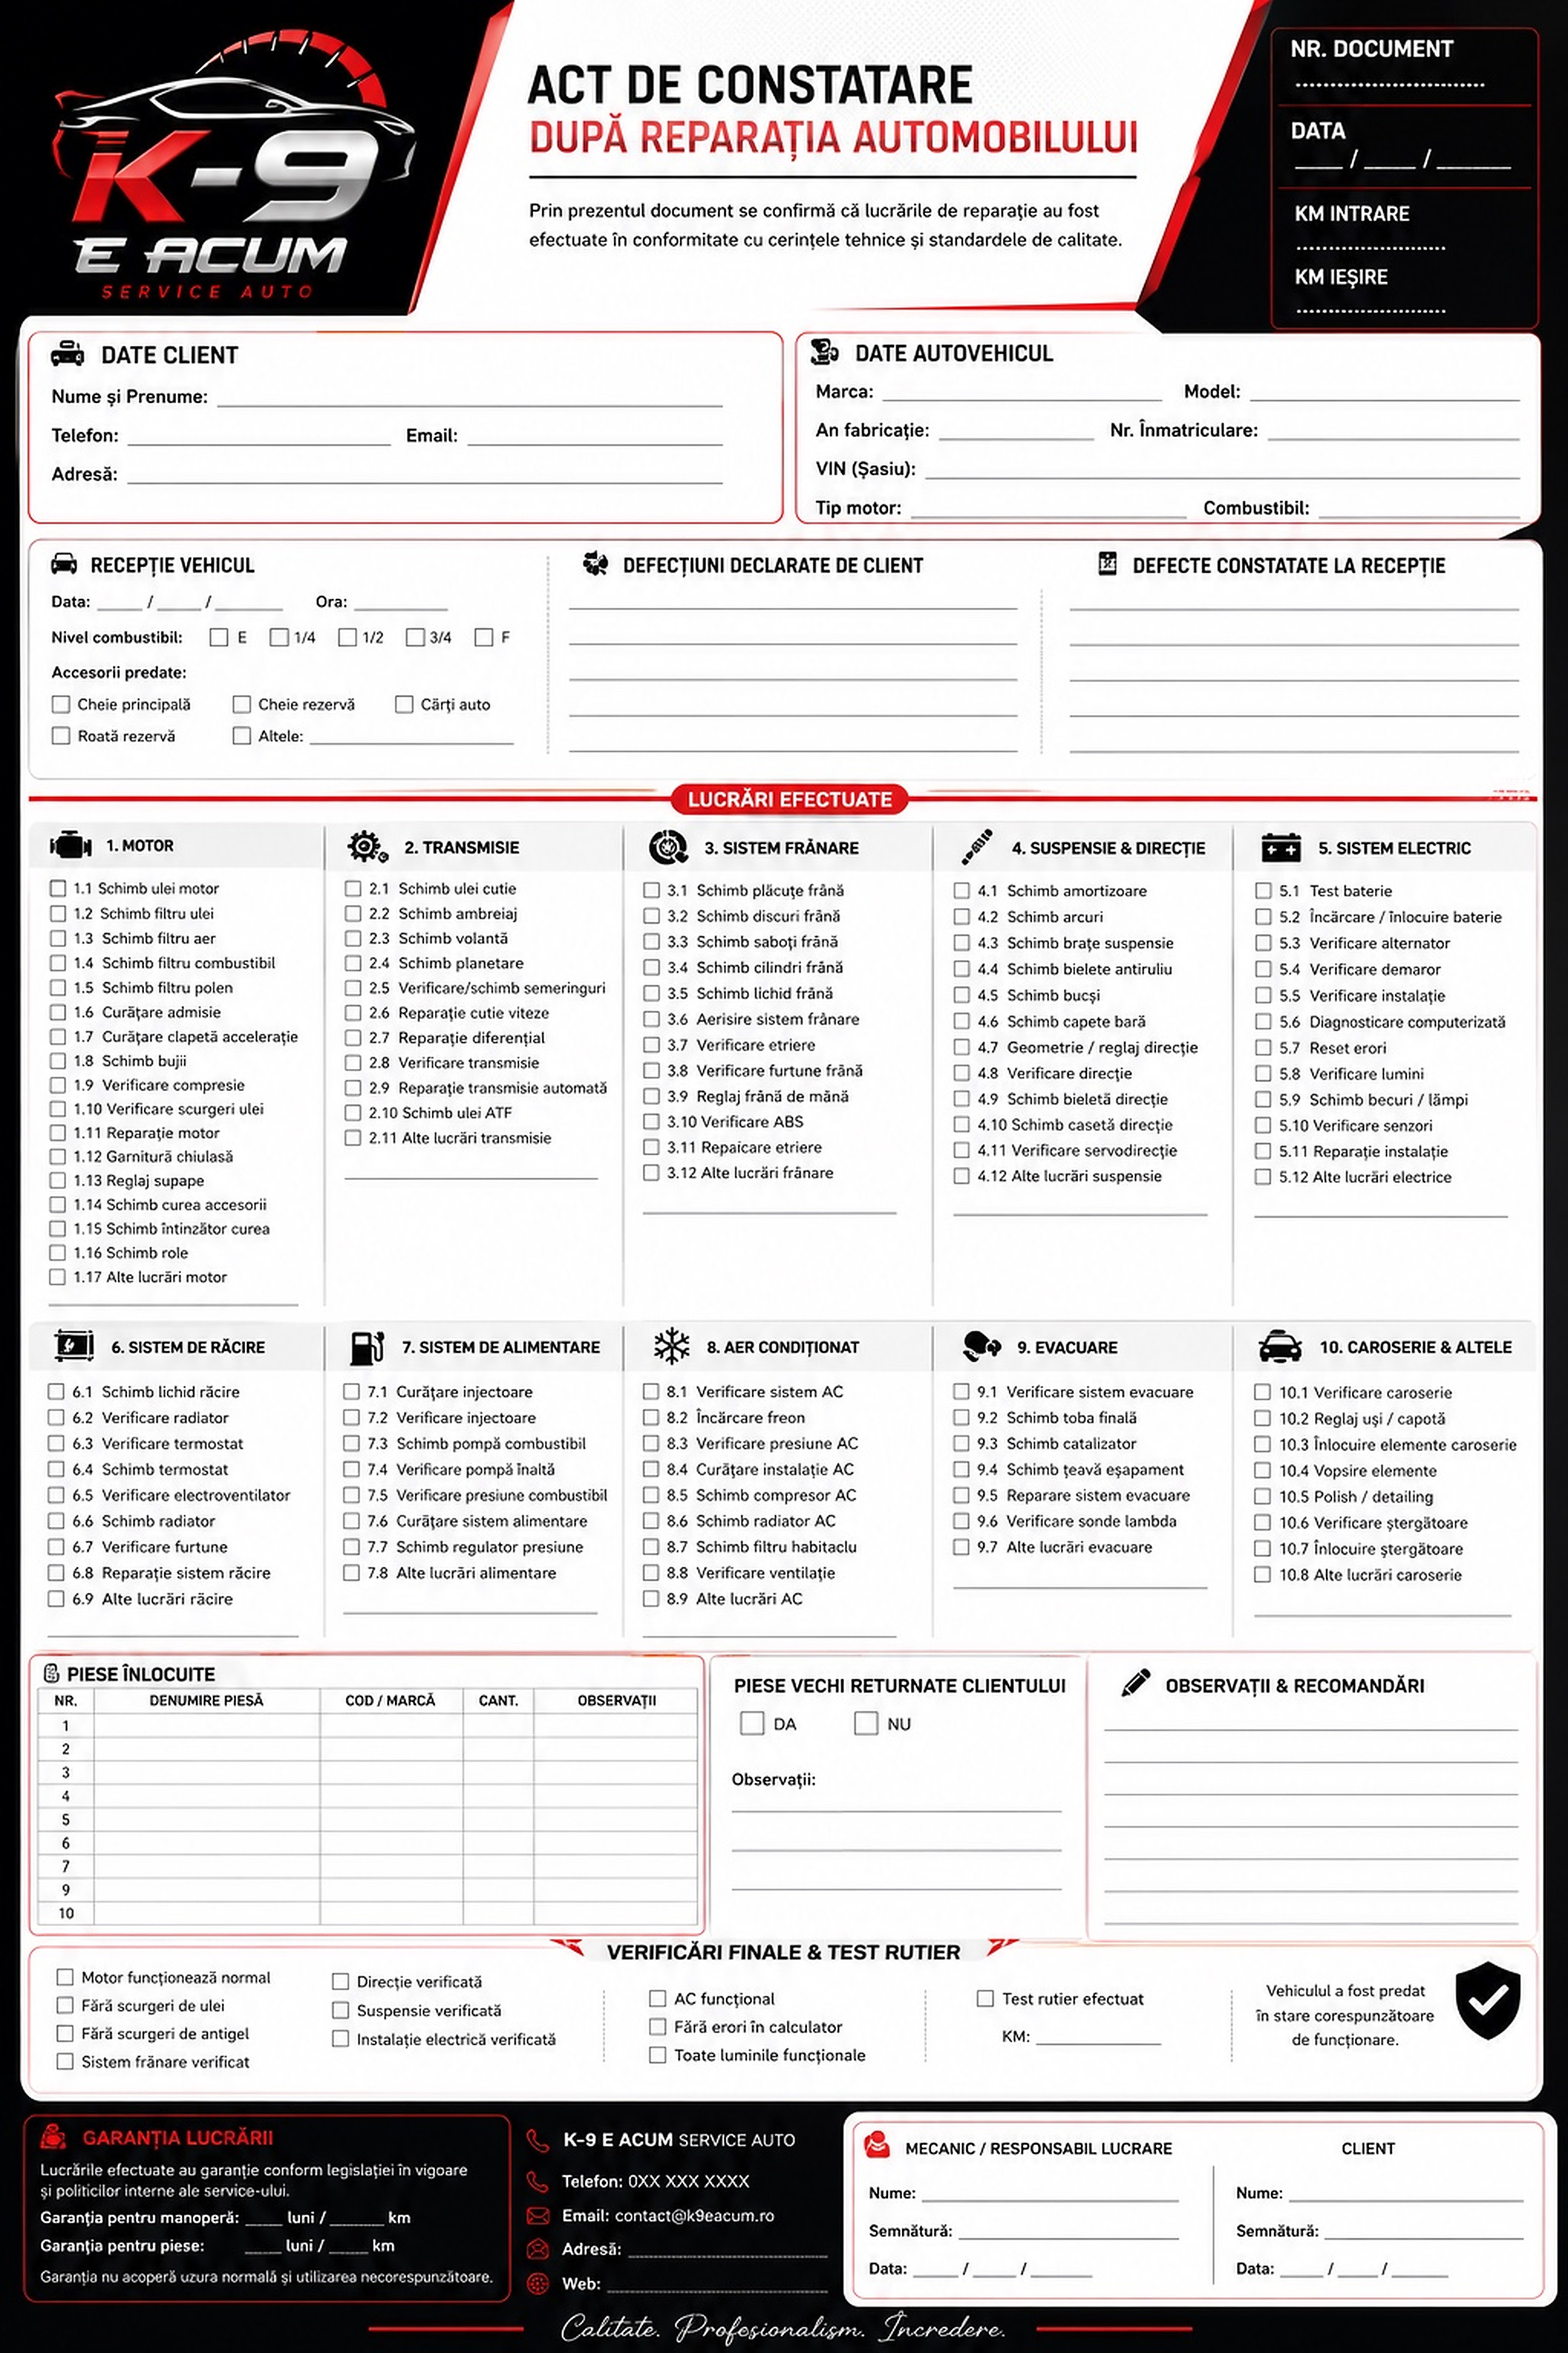
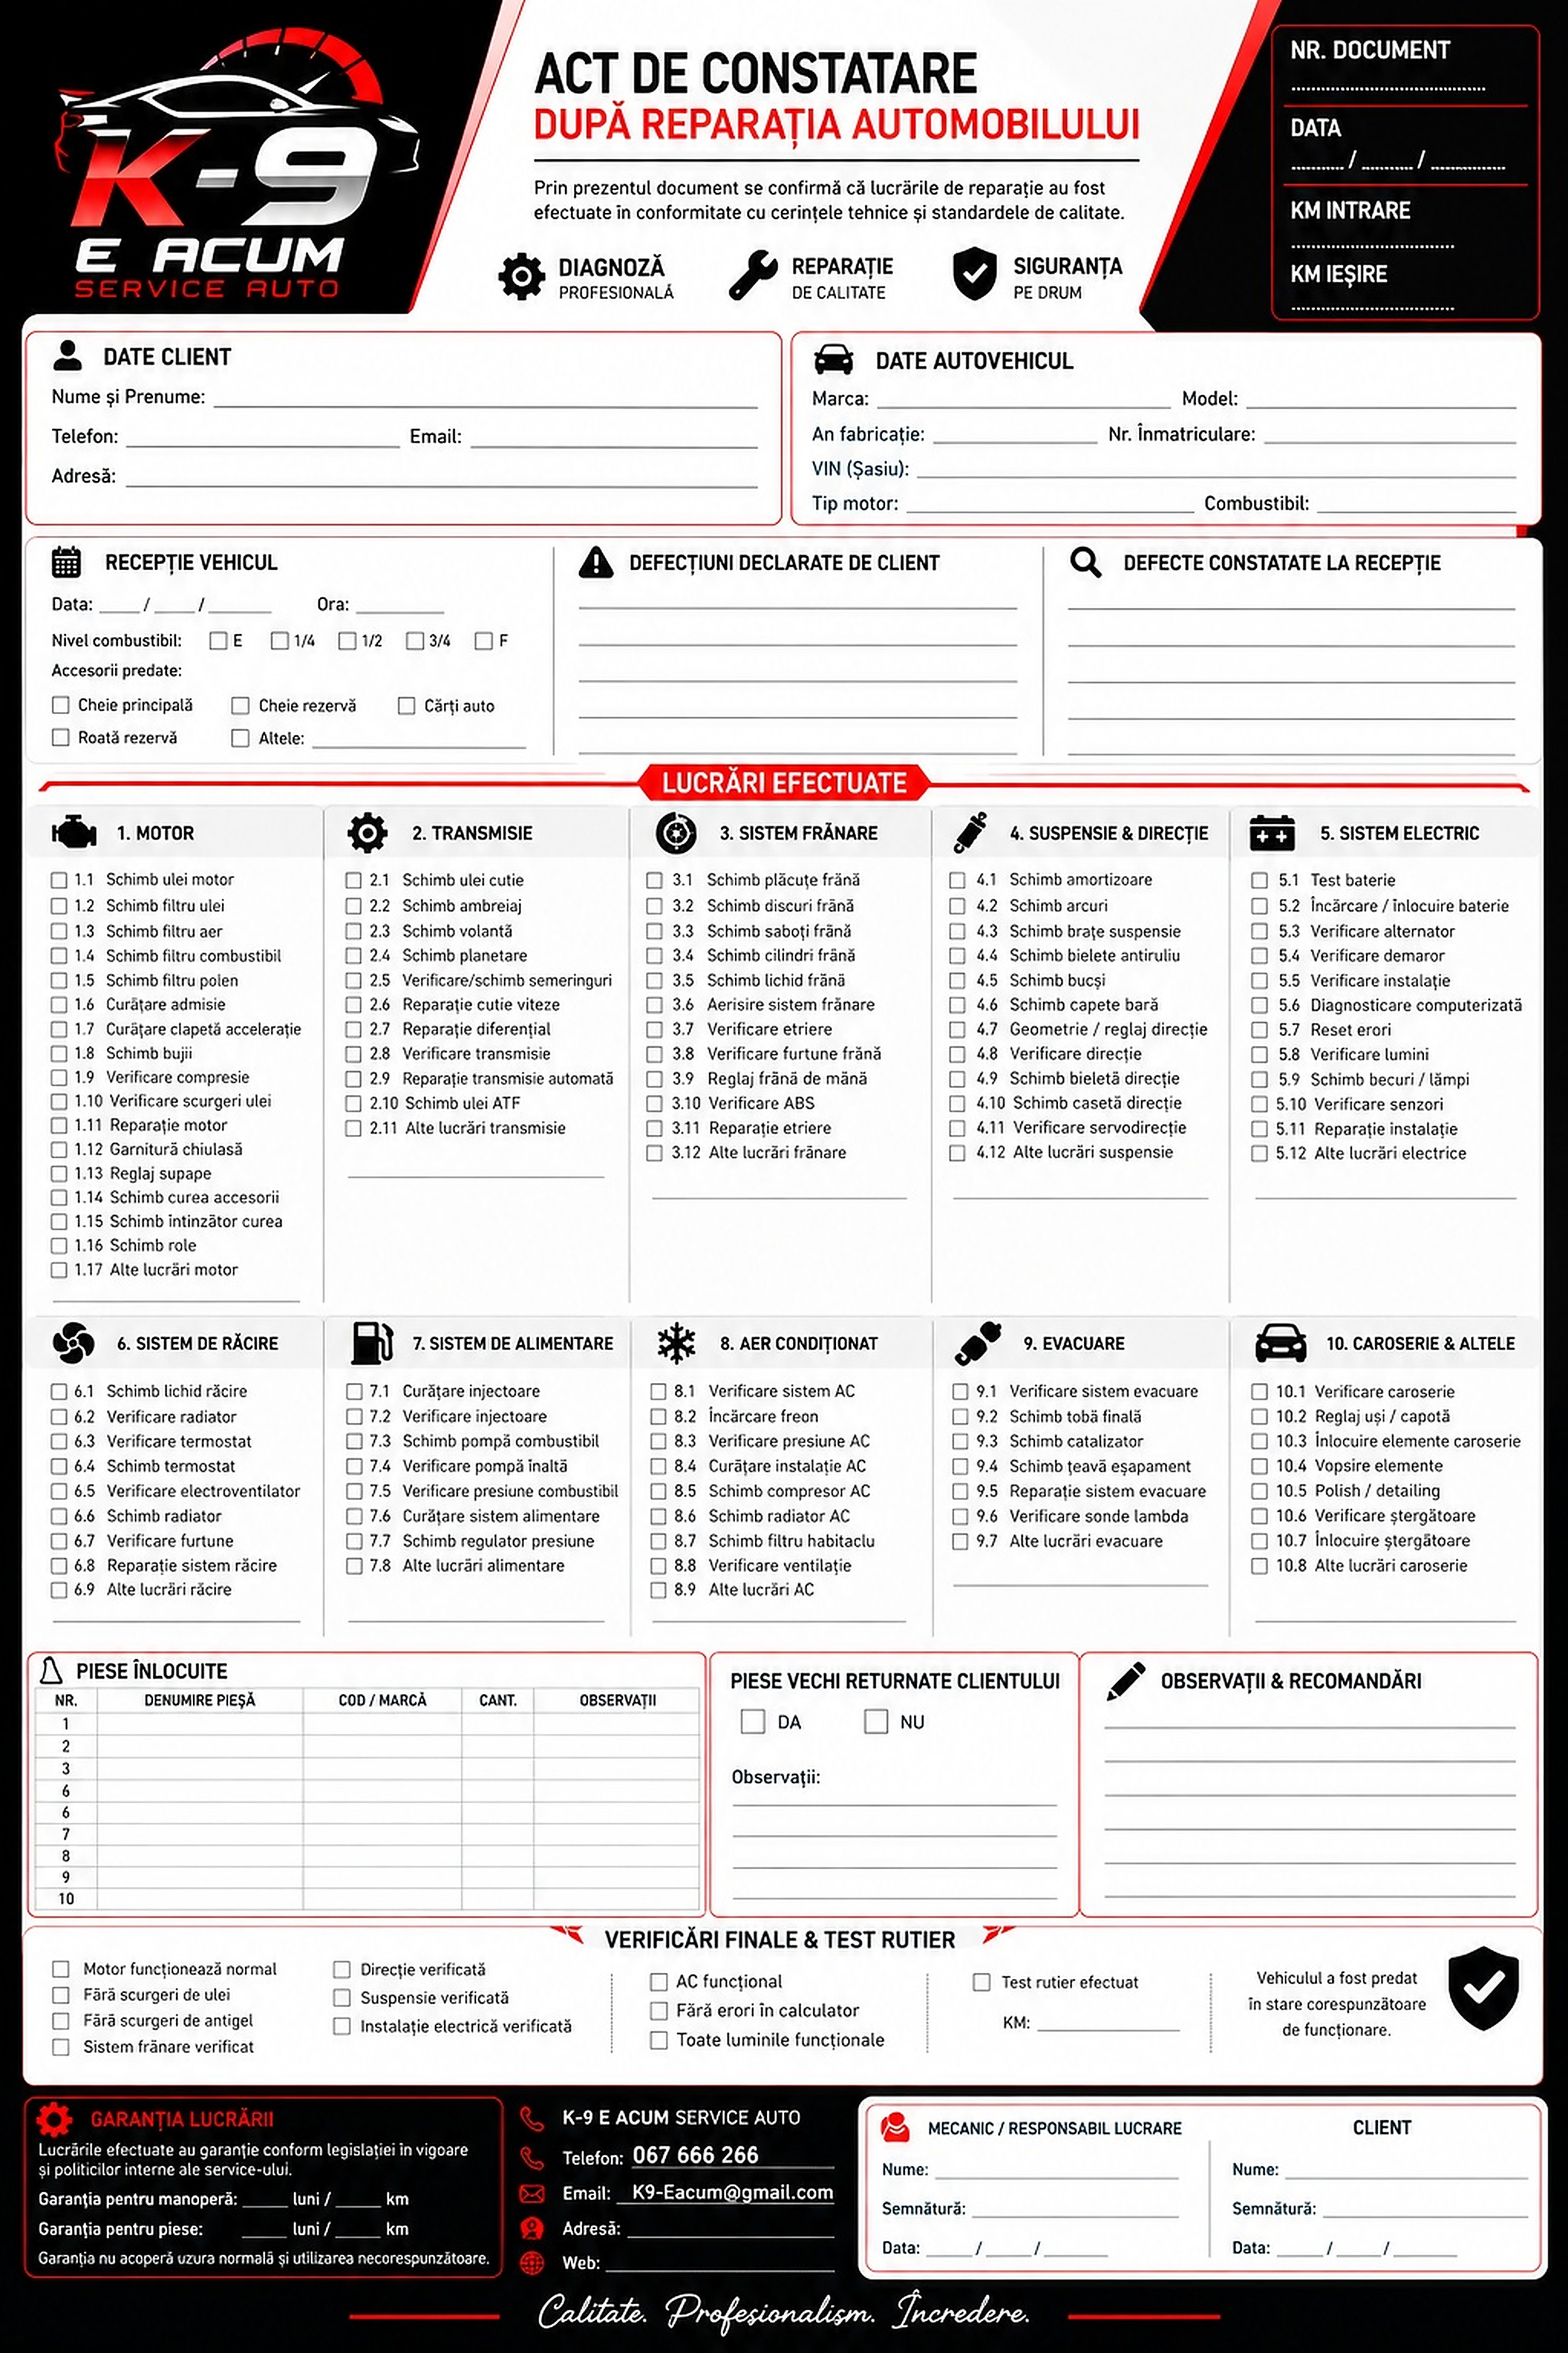
Add files via upload

Changed region(s): [[0.0, 0.0, 1.0, 1.0], [0.375, 0.5, 0.4062, 0.5312], [0.25, 0.1562, 0.2812, 0.1875]]

diff --git a/index.html b/index.html
@@ -45,7 +45,7 @@ function addCheck(k,x,y){let e=document.createElement('input');e.type='checkbox'
 function build(){const s=document.getElementById('sheet');s.innerHTML='';
 // Header/customer/vehicle fields
 [['doc',850,25,130],['date',850,72,130],['kmin',850,120,130],['kmout',850,168,130],['client',35,250,430],['phone',35,278,220],['email',300,278,180],['address',35,307,430],['plate',720,278,250],['vin',565,307,405],['engine',565,333,215],['fuel',820,333,150]].forEach(a=>s.appendChild(field(...a)));
-s.appendChild(sel('make',565,250,205,'MARCA'));s.appendChild(sel('model',775,250,195,'MODEL'));let years=[];for(let y=2026;y>=1980;y--)years.push(y);s.appendChild(sel('year',565,278,150,'AN FABRICAȚIE'));
+s.appendChild(sel('make',565,250,205,'MARCA'));s.appendChild(sel('model',775,250,195,'MODEL'));s.appendChild(sel('year',565,278,150,'AN FABRICAȚIE'));
 s.appendChild(field('recDate',35,383,145));s.appendChild(field('recTime',225,383,90));s.appendChild(ta('decl',375,380,290,110));s.appendChild(ta('found',690,380,290,110));
 s.appendChild(ta('other',35,490,290,55));s.appendChild(ta('obs',690,490,290,55));
 // work checkboxes arranged across 10 columns, based on printed form
@@ -57,7 +57,7 @@ s.appendChild(ta('returnObs',480,1130,210,105));s.appendChild(ta('recommend',720
 s.appendChild(addCheck('returnedYes',490,1115));s.appendChild(addCheck('returnedNo',565,1115));
 let p=document.createElement('div');p.className='parts';for(let i=0;i<10;i++){let row=document.createElement('div');row.className='r';row.innerHTML=`<span>${i+1}</span><input value="${data['p'+i+'_name']||''}"><input value="${data['p'+i+'_code']||''}"><input value="${data['p'+i+'_qty']||''}"><input value="${data['p'+i+'_obs']||''}">`;let ins=row.querySelectorAll('input');ins.forEach((el,j)=>el.oninput=()=>data['p'+i+['_name','_code','_qty','_obs'][j]]=el.value);p.appendChild(row)}s.appendChild(p);
 }
-function openSelect(k){modalType=k;document.getElementById('modal').classList.add('open');document.getElementById('msearch').value='';document.getElementById('mtitle').textContent=k==='make'?'Selectează marca':k==='model'?'Selectează modelul':'Selectează anul';renderOpts();setTimeout(()=>document.getElementById('msearch').focus(),50)}
+function openSelect(k){if(k==='model'&&!data.make){toast('Selectează mai întâi marca');return}modalType=k;document.getElementById('modal').classList.add('open');document.getElementById('msearch').value='';document.getElementById('mtitle').textContent=k==='make'?'Selectează marca':k==='model'?'Selectează modelul':'Selectează anul';renderOpts();setTimeout(()=>document.getElementById('msearch').focus(),50)}
 function renderOpts(){let q=document.getElementById('msearch').value.toLowerCase(),arr;if(modalType==='make')arr=Object.keys(catalog);else if(modalType==='model')arr=catalog[data.make]||[];else arr=Array.from({length:47},(_,i)=>String(2026-i));arr=arr.filter(x=>x.toLowerCase().includes(q));document.getElementById('opts').innerHTML=arr.map(x=>`<button onclick="choose(${JSON.stringify(x)})">${x}</button>`).join('')||'<div class="hint">Nu am găsit. Poți adăuga ulterior marca/modelul.</div>'}
 function choose(x){data[modalType]=x;if(modalType==='make'){data.model=''}closeModal();build()};function closeModal(){document.getElementById('modal').classList.remove('open')}
 function save(){localStorage.setItem('k9current',JSON.stringify(data));let h=JSON.parse(localStorage.getItem('k9history')||'[]');h.unshift({id:Date.now(),date:new Date().toLocaleString('ro-RO'),make:data.make||'',model:data.model||'',plate:data.plate||'',data:{...data}});h=h.slice(0,50);localStorage.setItem('k9history',JSON.stringify(h));toast('Fișa a fost salvată.')}function toast(t){let e=document.getElementById('toast');e.textContent=t;e.style.display='block';setTimeout(()=>e.style.display='none',1800)}

diff --git a/sw.js b/sw.js
@@ -1,1 +1,5 @@
-const CACHE='k9-v4-pro';self.addEventListener('install',e=>e.waitUntil(caches.open(CACHE).then(c=>c.addAll(['./','./index.html','./fisa-model.jpg','./manifest.json']))));self.addEventListener('fetch',e=>e.respondWith(caches.match(e.request).then(r=>r||fetch(e.request))));
+const CACHE='k9-v5-final';
+const ASSETS=['./','./index.html','./fisa-model.jpg','./manifest.json'];
+self.addEventListener('install',e=>e.waitUntil(caches.open(CACHE).then(c=>c.addAll(ASSETS)).then(()=>self.skipWaiting())));
+self.addEventListener('activate',e=>e.waitUntil(caches.keys().then(keys=>Promise.all(keys.filter(k=>k!==CACHE).map(k=>caches.delete(k)))).then(()=>self.clients.claim())));
+self.addEventListener('fetch',e=>e.respondWith(caches.match(e.request).then(r=>r||fetch(e.request))));
